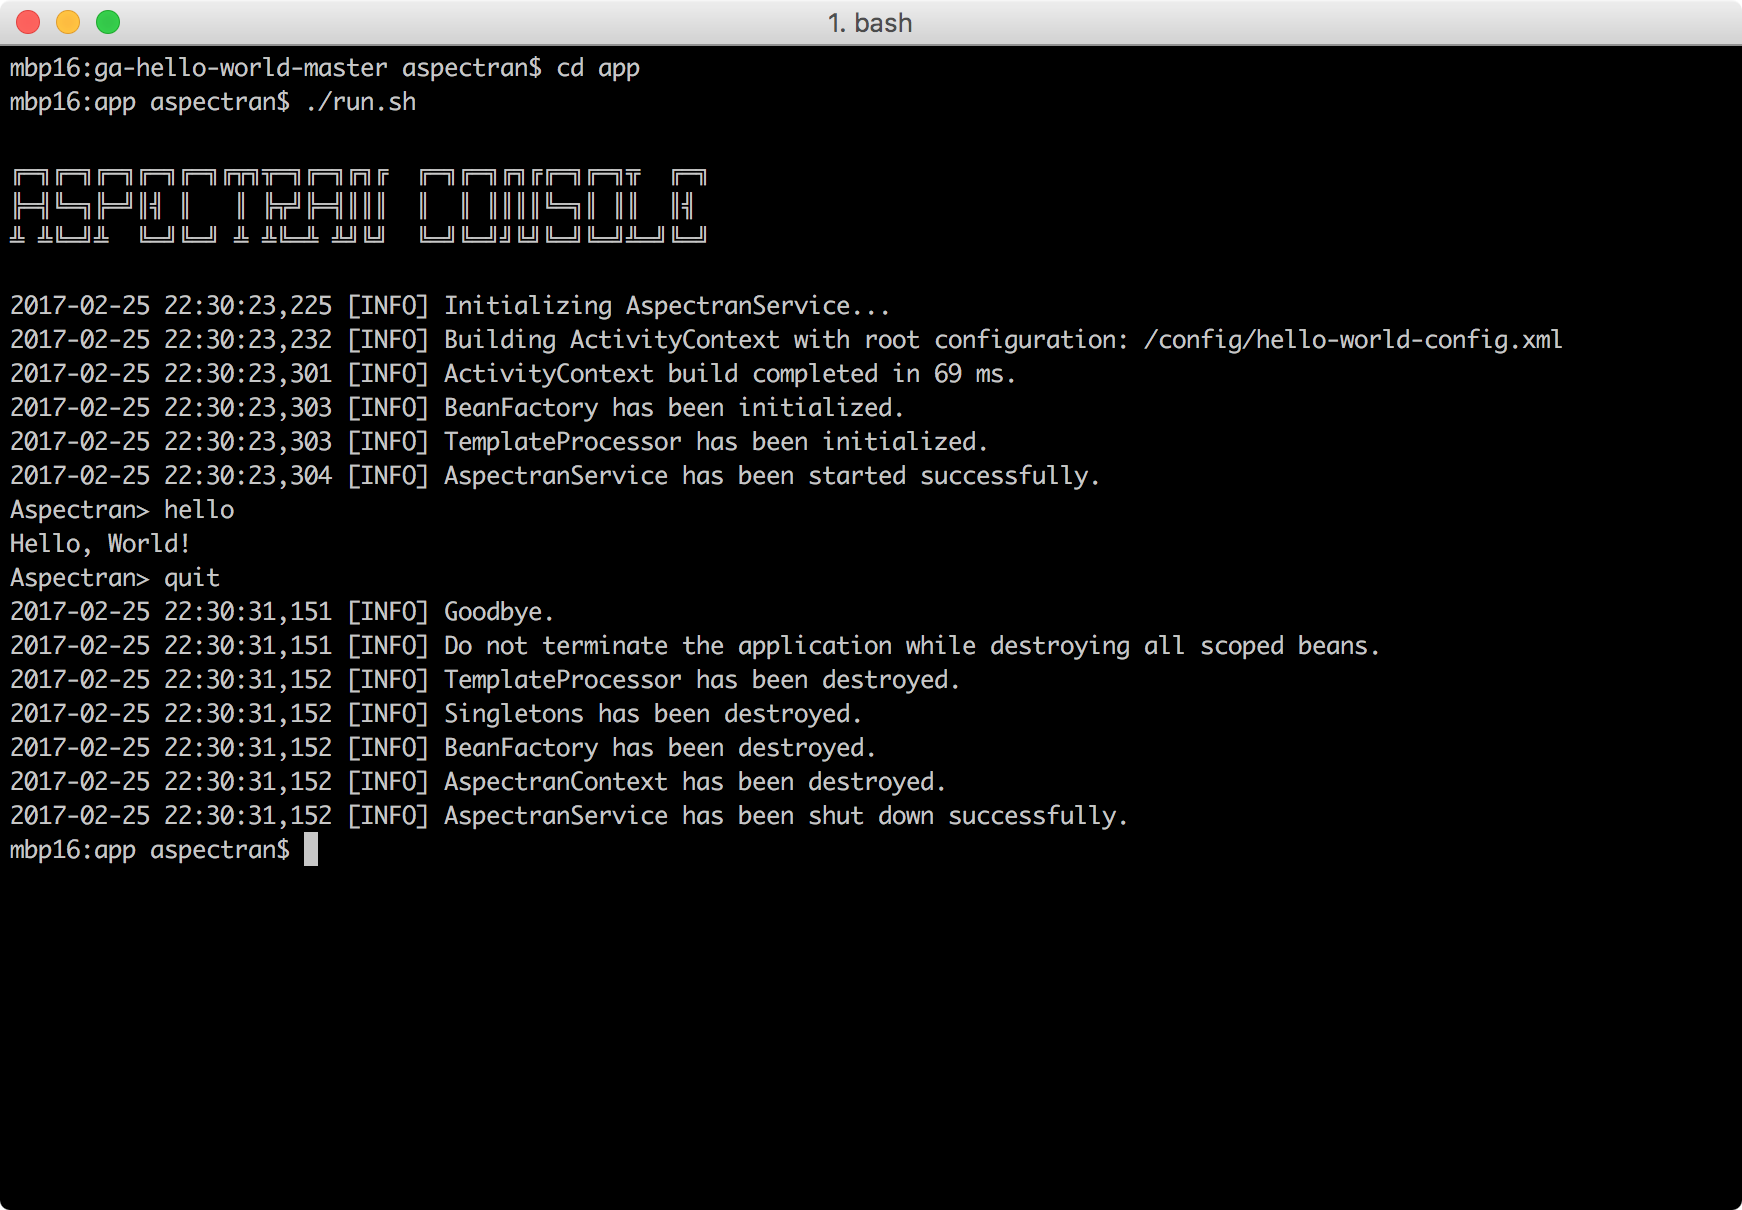
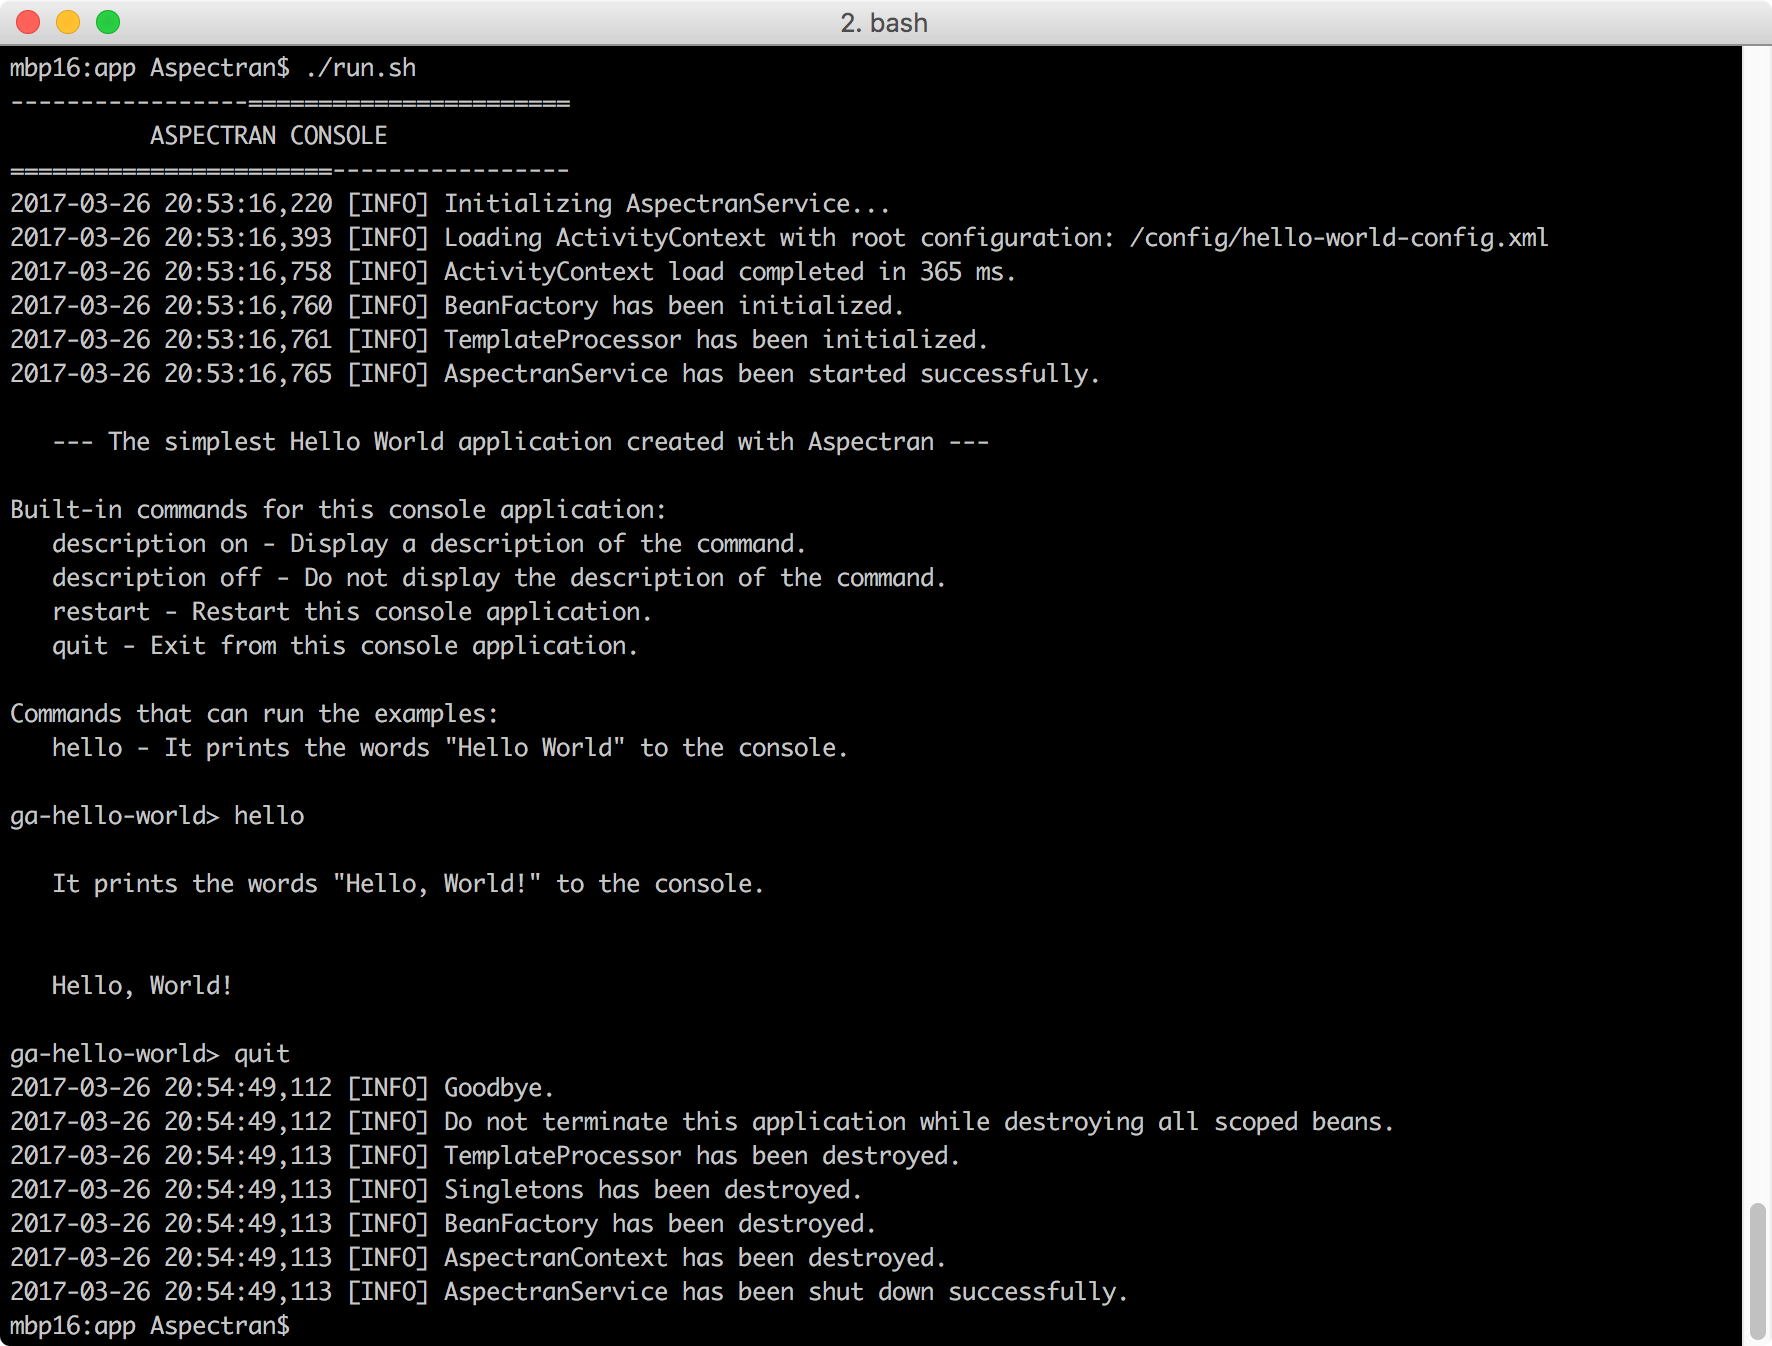
Update ga-hello-world example

Changed region(s): [[0.0, 0.0, 1.0, 1.0], [0.0, 0.7645, 0.775, 1.0]]

diff --git a/_layouts/example.html b/_layouts/example.html
@@ -57,6 +57,9 @@ outside_heading: true
           </div>
 
           <div class="columns large-9 large-pull-3">
+            {% if page.asciinema %}
+            <script type="text/javascript" src="https://asciinema.org/a/{{ page.asciinema }}.js" id="asciicast-{{ page.asciinema }}" async></script>
+            {% endif %}
             <article>
               {{ content }}
             </article>

diff --git a/_examples/ga-hello-world.md b/_examples/ga-hello-world.md
@@ -1,8 +1,8 @@
 ---
 layout: example
 format: plate article
-title: Aspectran - Hello World Example
-subheadline: Aspectran으로 만드는 가장 간단한 Hello World 어플리케이션
+title: Aspectran Hello World Example
+subheadline: Aspectran으로 만든 가장 간단한 Hello World 어플리케이션
 teaser: Aspectran을 이용하여 가장 간단한 방법으로 "Hello World!" 문자열을 출력하는 어플리케이션을 만들어 봅니다.
 outside_heading: true
 breadcrumb: true
@@ -13,18 +13,19 @@ download:
   url: https://github.com/aspectran-guides/ga-hello-world
 - label: "Download ZIP"
   url: https://github.com/aspectran-guides/ga-hello-world/archive/master.zip
+asciinema: 4cxhhrtlwbalbpv0se359c49a
 ---
 
 ## 시작하기
 
-"Hello World!" 문자열을 출력하는 방법은 크게 두 가지가 있습니다.
+간단하게 "Hello, World!" 문자열을 출력하는 방법은 두 가지가 있습니다.
 
-* 문자열을 출력하는 Java 코드를 작성하는 방법
-* Java 코드를 작성하지 않고 문자열을 출력하는 방법
+* Java 코드를 작성해서 "Hello, World!" 문자열을 출력하는 방법
+* Java 코드를 작성하지 않고 "Hello, World!" 문자열을 출력하는 방법
 
-여기서는 Java 코드를 작성하지 않고 "Hello World" 문자열을 출력하는 방법에 대해 알아보겠습니다.
+여기서는 Java 코드를 작성하지 않고 "Hello, World!" 문자열을 출력하는 방법에 대해 설명합니다.
 
-## 설정 구성 작성
+## 설정 구성
 
 "Hello, World!" 문자열을 출력하는 가장 간단한 설정 구성은 다음과 같이 작성될 수 있습니다.   
 
@@ -32,14 +33,38 @@ download:
 
 {% highlight xml %}
 <?xml version="1.0" encoding="utf-8"?>
-<!DOCTYPE aspectran PUBLIC "-//ASPECTRAN//DTD Aspectran Configuration 3.0//EN"
-    "http://aspectran.github.io/dtd/aspectran-3.dtd">
+<!DOCTYPE aspectran PUBLIC "-//ASPECTRAN//DTD Aspectran Configuration 4.0//EN"
+                           "http://aspectran.github.io/dtd/aspectran-4.dtd">
 
 <aspectran>
 
+    <description style="apon">
+        |
+        |   --- The simplest Hello World application created with Aspectran ---
+        |
+        |Built-in commands for this console application:
+        |   description on - Display a description of the command.
+        |   description off - Do not display the description of the command.
+        |   restart - Restart this console application.
+        |   quit - Exit from this console application.
+        |
+        |Commands that can run the examples:
+        |   hello - It prints the words "Hello, World!" to the console.
+        |
+    </description>
+
     <translet name="hello">
+        <description style="apon">
+            |
+            |   It prints the words "Hello World" to the console.
+            |
+        </description>
         <transform type="transform/text" contentType="text/plain">
-            <template>Hello, World!</template>
+            <template style="apon">
+                |
+                |   Hello, World!
+                |
+            </template>
         </transform>
     </translet>
 
@@ -47,11 +72,11 @@ download:
 {% endhighlight xml %}
 
 > "hello"라는 이름을 가진 `translet`이 하나 정의되어 있는 것을 볼 수 있습니다.  
-> 그 `translet` 안에는 텍스트 형식으로 변환하는 기능을 가진 것으로 보이는 `transform`이 정의되어 있고,  
+> 그 `translet` 안에는 텍스트 형식으로 변환하는 역할을 할 것으로 보이는 `transform`이 정의되어 있고,  
 > `transform` 안에는 "Hello, World!" 문자열을 가진 `template`이 정의되어 있습니다.
 
 우리는 "hello"라는 이름을 가진 `translet`을 실행해야 함을 직감할 수 있습니다.
-명령어 "hello"을 실행하면 `translet`은 지정한 형식으로 가공된 데이터를 반환하는 역할을 합니다.
+명령어 "hello"를 실행하면 `translet`은 지정한 형식으로 가공된 데이터를 반환하는 역할을 합니다.
 
 ## 실행 방법
 
@@ -71,15 +96,10 @@ download:
 
 1. `ga-hello-world-master/app` 경로로 이동하세요.
 2. `run.sh` 파일을 실행하세요. (Windows 환경에서는 `run.bat` 파일을 실행하세요.)
-3. 정상적으로 실행이 되면 `Aspectran>` 프롬프트가 나옵니다.
+3. 정상적으로 실행이 되면 `ga-hello-world>` 프롬프트가 나옵니다.
 4. 프롬프트에서 명령어 `hello`를 입력하면 "Hello, World!" 문자열이 출력됩니다.
 5. 명령어 `quit`를 입력하면 프로그램을 종료할 수 있습니다.
 
 > 실행이 안 될 경우 다음 두 가지 사항에 대해 점검해 보세요.  
 > - java 명령어를 실행할 수 있도록 환경변수가 설정되어 있는지 확인하세요.  
 > - Aspectran은 Java 8 이상을 필요로 합니다.
-
-## 실행 결과
-
-위 설정 구성으로 콘솔 환경에서 실행하면 다음과 같은 화면을 볼 수 있습니다.
-![실행 화면]({{ site.baseurl}}/images/examples/ga-hello-world.png)
